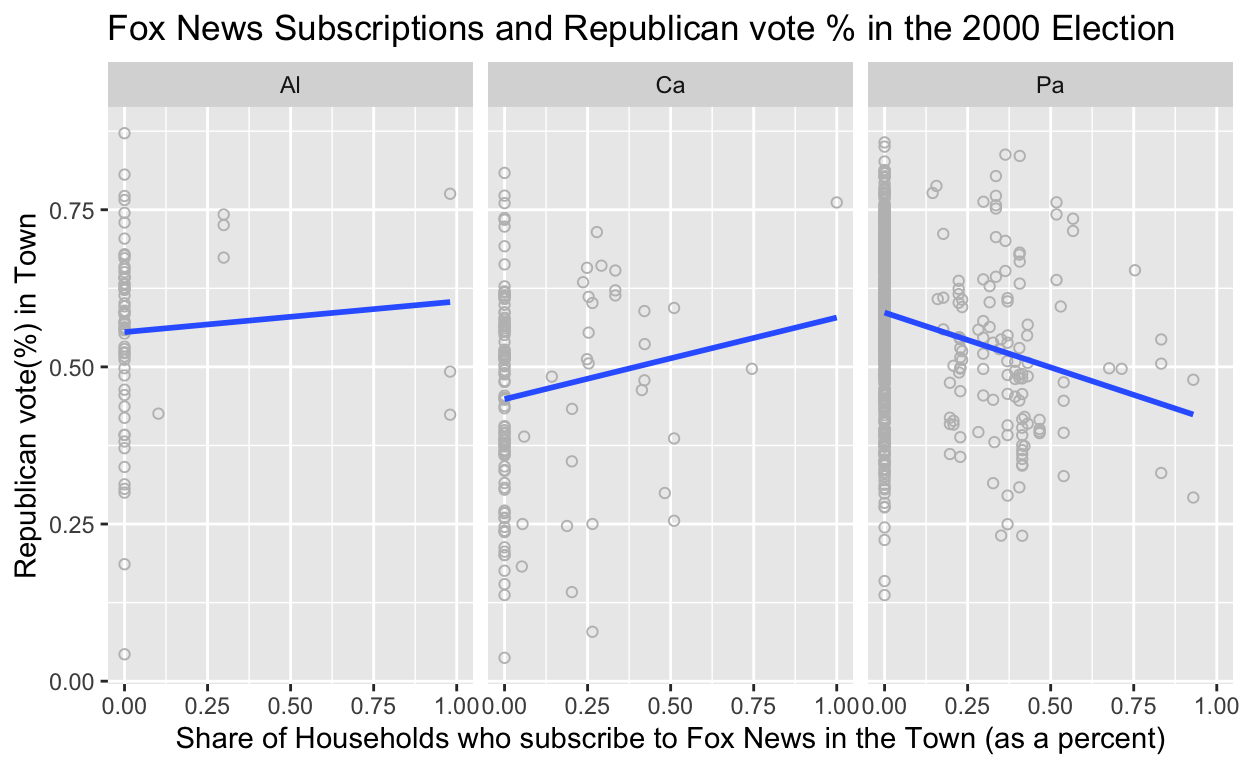
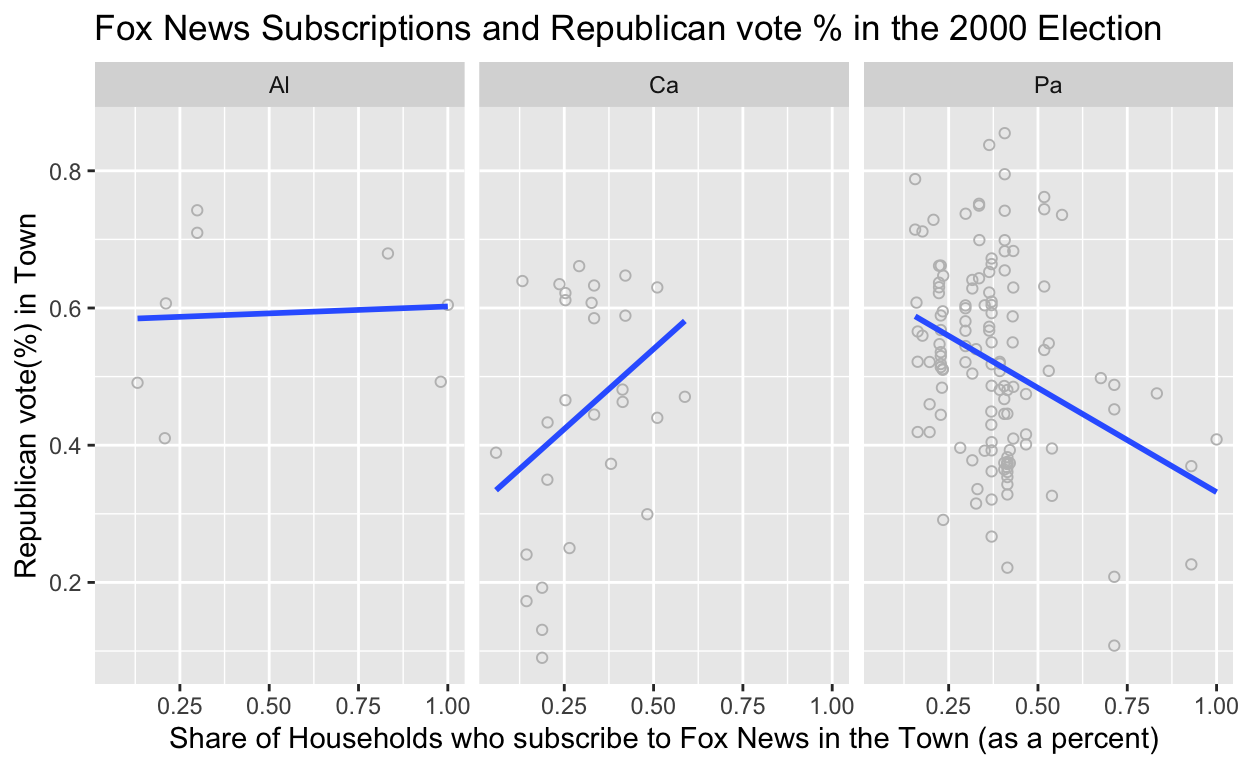
commit

diff --git a/index.html b/index.html
@@ -1520,7 +1520,8 @@ code span.wa { color: #5e5e5e; font-style: italic; } /* Warning */
 
 <div class="d-article">
 <h2 id="project-thoughts">Project thoughts</h2>
-<p>Can the percentage of a town’s fox news subscribers predict their GOP vote share. In this study, I plan to examine whether or not there is a correlation between the percentage of fox news subscribers, and whether the percentage of how many voted Republican in the 2000 presidential election. I hypothesize that towns with a greater percentage of fox news subscribers will see a greater percentage of those voting Republican. My explanatory variable is the share of subscribers to fox news in a town in the year 2000 , my response variable is Republican vote share in that town in the year 2000. If I observe, on average, a greater republican vote percentages in a town where there is a high prevalence of fox news, then my hypothesis will be correct. If I observe on average, a lower republican vote percentage in a town where there is a high share of fox news subscribers.</p>
+<p>Can the percentage of a town’s fox news subscribers predict their GOP vote share. In this study, I plan to examine whether or not there is a correlation between the percentage of fox news subscribers, and whether the percentage of how many voted Republican in the 2000 presidential election. I hypothesize that towns with a greater percentage of fox news subscribers will see a greater percentage of those voting Republican. My explanatory variable is the share of subscribers to fox news in a town in the year 2000 , my response variable is Republican vote share in that town in the year 2000. If I observe, on average, a greater republican vote percentages in a town where there is a high prevalence of fox news, then my hypothesis will be correct. If I observe on average, a lower republican vote percentage in a town where there is a high share of fox news subscribers.
+In addition to the linear regression that I will run on the overall dataset, I will also run a linear regression when controlling for college education. Furthermore I will also see if there are variances on whether or not there is a correlation depending on the state in which an individual resides in. I plan on examining if there are differences in correlation between solidly red or blue states and swing states. I find this all interesting because it is an interesting way to determine whether the media changes our opinions or solely informs us.</p>
 <div class="layout-chunk" data-layout="l-body">
 <div class="sourceCode">
 <pre class="sourceCode r"><code class="sourceCode r"><span><span class='kw'><a href='https://rdrr.io/r/base/library.html'>library</a></span><span class='op'>(</span><span class='va'><a href='https://tidyverse.tidyverse.org'>tidyverse</a></span><span class='op'>)</span></span>
@@ -1546,7 +1547,8 @@ code span.wa { color: #5e5e5e; font-style: italic; } /* Warning */
 </div>
 <p><img src="index_files/figure-html5/unnamed-chunk-2-1.png" width="624" /></p>
 </div>
-<p>As we see in this graph, as the share of households who subscribe to Fox news in the Town as a percentage increases, on average the Republican vote share in the town slightly decreases. For every one percentage point increase in a Town’s republican vote share in the 2000 election, the GOP vote share decreased by 0.018 percentage points.</p>
+<p>As we see in this graph, as the share of households who subscribe to Fox news in the Town as a percentage increases, on average the Republican vote share in the town slightly decreases. For every one percentage point increase in a Town’s republican vote share in the 2000 election, the GOP vote share decreased by 0.018 percentage points.This would mean that my hypothesis that there was a positive correlation between Fox News subscriptions and the GOP vote share in the 2000 election is proven false.
+It is important to note that a critical confounding variable exists within the research we conduct and the data set. While the data shows the subscribers as a percentage, it is limited in the fact that we do not know whether or not an individual is a viewer. This is a cross-sectional research project.</p>
 <div class="layout-chunk" data-layout="l-body">
 <div class="sourceCode">
 <pre class="sourceCode r"><code class="sourceCode r"><span><span class='va'>fit</span> <span class='op'>&lt;-</span> <span class='fu'><a href='https://rdrr.io/r/stats/lm.html'>lm</a></span><span class='op'>(</span><span class='va'>gopvoteshare2000</span> <span class='op'>~</span> <span class='va'>subrf2000</span>, data <span class='op'>=</span> <span class='va'>foxnews</span> <span class='op'>)</span></span>
@@ -1709,6 +1711,9 @@ RMSE
 </tbody>
 </table>
 </div>
+<p>The analysis I decided to conduct was a linear regression output. The output describes the result of both the graph above and when we hold for the variation as a result of college education, which is graphed below. The dependent variable in both linear regression models is a town’s GOP vote share as a percentage in the 2000 presidential election. The independent variable in both linear regression models is the town’s subscription rate, measured in a percentage.
+Our main coefficient of interest in the 1st linear regression model, of -0.019, means that for every percentage point increase in a town of Fox News Subscribers in the year 2000, there was a decrease for Republican support in the 2000 election of 0.019 on average.
+On a secondary analysis which is graphed below, we controlled for college education level of that town, what proportion had a college education in 1990. Our main coefficient of interest in the 2nd linear regression model was -0.01. This means that for every percentage point increase in a town of Fox News Subscribers in the year 2000, there was a decrease for Republican support in the 2000 election of 0.01 on average.</p>
 <div class="layout-chunk" data-layout="l-body">
 <div class="sourceCode">
 <pre class="sourceCode r"><code class="sourceCode r"><span><span class='fu'><a href='https://ggplot2.tidyverse.org/reference/ggplot.html'>ggplot</a></span><span class='op'>(</span> data <span class='op'>=</span> <span class='va'>fit2</span>, mapping <span class='op'>=</span> <span class='fu'><a href='https://ggplot2.tidyverse.org/reference/aes.html'>aes</a></span><span class='op'>(</span>x <span class='op'>=</span> <span class='va'>subrf2000</span>, y <span class='op'>=</span> <span class='va'>gopvoteshare2000</span><span class='op'>)</span><span class='op'>)</span> <span class='op'>+</span> </span>
@@ -1721,17 +1726,19 @@ RMSE
 </div>
 <p><img src="index_files/figure-html5/unnamed-chunk-4-1.png" width="624" /></p>
 </div>
-<p>As we see in this graph, as the share of households who subscribe to Fox news in the Town as a percentage increases, on average the Republican vote share in the town slightly decreases. For every one percentage point increase in a Town’s republican vote share in the 2000 election, the GOP vote share decreased by 0.01 percentage point when we were holding for college education level. This shows that college education levels to some extent were confounding variables in determining the impact of Fox News subscriptions on a towns Republican vote share.</p>
+<p>As we see in this graph, as the share of households who subscribe to Fox news in the Town as a percentage increases, on average the Republican vote share in the town slightly decreases. For every one percentage point increase in a Town’s republican vote share in the 2000 election, the GOP vote share decreased by 0.01 percentage point when we were holding for college education level. This shows that college education levels to some extent were confounding variables in determining the impact of Fox News subscriptions on a towns Republican vote share.
+As seen in our main analysis, it is important to note that a critical confounding variable exists within the research we conduct and the data set. While the data shows the subscribers as a percentage, it is limited in the fact that we do not know whether or not an individual is a viewer.</p>
 <div class="layout-chunk" data-layout="l-body">
 <div class="sourceCode">
 <pre class="sourceCode r"><code class="sourceCode r"><span><span class='va'>foxnews2</span> <span class='op'>&lt;-</span> <span class='va'>foxnews</span> <span class='op'>|&gt;</span> </span>
 <span><span class='fu'><a href='https://dplyr.tidyverse.org/reference/select.html'>select</a></span><span class='op'>(</span><span class='va'>state</span>,<span class='va'>town</span>,<span class='va'>subrf2000</span>,<span class='va'>gopvoteshare1996</span>,<span class='va'>gopvoteshare2000</span> <span class='op'>)</span> </span>
 <span><span class='va'>foxnews2</span> <span class='op'>&lt;-</span> <span class='va'>foxnews2</span> <span class='op'>|&gt;</span></span>
+<span><span class='fu'><a href='https://dplyr.tidyverse.org/reference/filter.html'>filter</a></span><span class='op'>(</span><span class='op'>!</span><span class='va'>subrf2000</span> <span class='op'>==</span> <span class='fl'>0.00000000</span> <span class='op'>)</span> <span class='op'>|&gt;</span></span>
 <span><span class='fu'><a href='https://dplyr.tidyverse.org/reference/filter.html'>filter</a></span><span class='op'>(</span><span class='va'>state</span> <span class='op'>==</span>  <span class='fu'><a href='https://rdrr.io/r/base/c.html'>c</a></span><span class='op'>(</span><span class='st'>"Ca"</span>, <span class='st'>"Al"</span>, <span class='st'>"Pa"</span><span class='op'>)</span><span class='op'>)</span></span>
 <span></span>
 <span><span class='fu'><a href='https://ggplot2.tidyverse.org/reference/ggplot.html'>ggplot</a></span><span class='op'>(</span>data <span class='op'>=</span> <span class='va'>foxnews2</span>, mapping <span class='op'>=</span> <span class='fu'><a href='https://ggplot2.tidyverse.org/reference/aes.html'>aes</a></span><span class='op'>(</span>x <span class='op'>=</span> <span class='va'>subrf2000</span>, y <span class='op'>=</span> <span class='va'>gopvoteshare2000</span><span class='op'>)</span><span class='op'>)</span> <span class='op'>+</span></span>
 <span>  <span class='fu'><a href='https://ggplot2.tidyverse.org/reference/geom_point.html'>geom_point</a></span><span class='op'>(</span>color <span class='op'>=</span> <span class='st'>"gray"</span>, shape <span class='op'>=</span> <span class='fl'>1</span><span class='op'>)</span> <span class='op'>+</span>  </span>
-<span>  <span class='fu'><a href='https://ggplot2.tidyverse.org/reference/geom_smooth.html'>geom_smooth</a></span><span class='op'>(</span>method <span class='op'>=</span> <span class='st'>"lm"</span>, se <span class='op'>=</span> <span class='cn'>FALSE</span><span class='op'>)</span> <span class='op'>+</span> </span>
+<span>  <span class='fu'><a href='https://ggplot2.tidyverse.org/reference/geom_smooth.html'>geom_smooth</a></span><span class='op'>(</span>method <span class='op'>=</span> <span class='st'>"lm"</span>, se <span class='op'>=</span> <span class='cn'>FALSE</span><span class='op'>)</span> <span class='op'>+</span></span>
 <span>  <span class='fu'><a href='https://ggplot2.tidyverse.org/reference/facet_wrap.html'>facet_wrap</a></span><span class='op'>(</span><span class='op'>~</span> <span class='va'>state</span><span class='op'>)</span> <span class='op'>+</span> </span>
 <span>  <span class='fu'><a href='https://ggplot2.tidyverse.org/reference/labs.html'>labs</a></span><span class='op'>(</span>x <span class='op'>=</span> <span class='st'>"Share of Households who subscribe to Fox News in the Town (as a percent)"</span>,</span>
 <span>       y <span class='op'>=</span> <span class='st'>"Republican vote(%) in Town"</span>,</span>
@@ -1740,7 +1747,9 @@ RMSE
 </div>
 <p><img src="index_files/figure-html5/unnamed-chunk-5-1.png" width="624" /></p>
 </div>
-<p>A question that arises is whether or not Fox News subscriptions had different effects on Vote share’s depending on a location. To determine this, we selected three states, one that solidly voted Republican (Alabama), one that solidly voted Democratic (California) and a state that was decided within 5% (Pennsylvania). Our analysis shows that Fox News Subscriptions had different correlations in different states. In the noncompetitive states, there was a positive correlation between Fox News Subscriptions and GOP vote share. However in Pennsylvania the swing state, there was a negative correlation.</p>
+<p>A question that arises is whether or not Fox News subscriptions had different effects on Vote share’s depending on a location. To determine this, we selected three states, one that solidly voted Republican (Alabama), one that solidly voted Democratic (California) and a state that was decided within 5% (Pennsylvania). Our analysis shows that Fox News Subscriptions had different correlations in different states. In the noncompetitive states, there was a positive correlation between Fox News Subscriptions and GOP vote share.However in Pennsylvania the swing state, there was a negative correlation.</p>
+<p>Conclusion:
+Overall, we find that in the 2000 Presidential election, there was a slightly negative correlation between a town’s percentage of Republican vote share in the 2000 Presidential election, and the percentage of that town who has a cable subscription that includes Fox News. When controlling for college education, we see that this negative correlation still exists, despite a weakening. We also find that there is variation in correlation dependent on the individual state. This is the opposite of my original hypothesis, however, there were numerous limitations and confounding variables to allow us to make an inference. First, the dataset is outdated, there have since been 5 presidential election cycles, as a result we cannot apply the conclusion to today’s political situation. Furthermore, a confounding variable that existed within the data was whether or not the town watched Fox News. If I were to design a study today with unlimited time and money, I would look at in the next presidential election, a town’s viewership, not subscription to Fox News and their Republican vote share. I would also collect more data points, this data set failed to collect data from a wide variety of states and localities, I would have a broader sample if I had unlimited resources.</p>
 <div class="sourceCode" id="cb1"><pre class="sourceCode r distill-force-highlighting-css"><code class="sourceCode r"></code></pre></div>
 <!--radix_placeholder_article_footer-->
 <!--/radix_placeholder_article_footer-->
